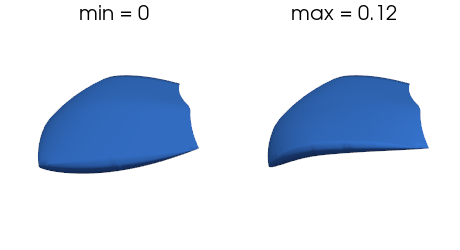
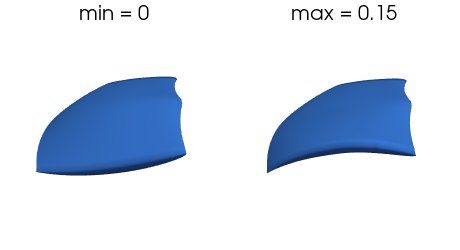
fix(ui,docs): sync UI-35 tooltip image ranges, reconcile QA_REVIEW, and guard tarball tests

diff --git a/scripts/generate_control_images.py b/scripts/generate_control_images.py
@@ -47,10 +47,10 @@ DEFAULT = {
 #   ("feat_n", feat_fixed: dict, count_key)            — vary count; amp/other dims fixed
 CONTROLS = [
     ("e_n_blades", "Blades", "n_blades", 5, 11, "fan"),
-    ("e_camber", "Camber / scoop", "max_camber", 0.0, 0.12, "blade"),
-    ("e_camber_root", "Camber / scoop — root", "camber_root", 0.0, 0.12, "blade"),
-    ("e_camber_mid", "Camber / scoop — mid", "camber_mid", 0.0, 0.12, "blade"),
-    ("e_camber_tip", "Camber / scoop — tip", "camber_tip", 0.0, 0.12, "blade"),
+    ("e_camber", "Camber / scoop", "max_camber", 0.0, 0.15, "blade"),
+    ("e_camber_root", "Camber / scoop — root", "camber_root", 0.0, 0.15, "blade"),
+    ("e_camber_mid", "Camber / scoop — mid", "camber_mid", 0.0, 0.15, "blade"),
+    ("e_camber_tip", "Camber / scoop — tip", "camber_tip", 0.0, 0.15, "blade"),
     ("e_stagger_root", "Stagger / pitch — root", "stagger_root", 15, 55, "fan"),
     ("e_stagger_mid", "Stagger / pitch — mid", "stagger_mid", 15, 55, "fan"),
     ("e_stagger_tip", "Stagger / pitch — tip", "stagger_tip", 15, 55, "fan"),
@@ -67,12 +67,12 @@ CONTROLS = [
      {"lean_tip": 10.0, "cylindrical_tip": False}),
     ("e_le_skew_tip", "Sickle — tip", "le_skew_tip", 0, 15, "fan",
      {"lean_tip": 10.0, "cylindrical_tip": False}),
-    ("e_hub_radius", "Hub radius", "hub_radius", 15, 30, "fan"),
+    ("e_hub_radius", "Hub radius", "hub_radius", 15, 35, "fan"),
     ("e_tip_radius", "Tip radius / length", "tip_radius", 45, 59, "fan"),
-    ("e_skew_mid", "Skew mid", "skew_mid", -6, 6, "fan"),
-    ("e_skew_tip", "Skew tip", "skew_tip", -6, 6, "fan"),
-    ("e_winglet_sweep", "Winglet sweep", "winglet_sweep", 0, 12, "fan"),
-    ("e_winglet_lean", "Winglet lean", "winglet_lean", 0, 25, "fan"),
+    ("e_skew_mid", "Skew mid", "skew_mid", -20, 20, "fan"),
+    ("e_skew_tip", "Skew tip", "skew_tip", -25, 25, "fan"),
+    ("e_winglet_sweep", "Winglet sweep", "winglet_sweep", 0, 15, "fan"),
+    ("e_winglet_lean", "Winglet lean", "winglet_lean", 0, 30, "fan"),
     ("e_winglet_span", "Winglet start", "winglet_span", 0.6, 0.95, "fan",
      {"winglet_sweep": 10.0, "winglet_lean": 20.0}),
     ("e_tip_round", "Tip round", "tip_round", 0.0, 1.0, "fan"),
@@ -86,8 +86,8 @@ CONTROLS = [
     ("e_hub_height", "Hub height", "hub_height", 6, 30, "fan"),
     ("e_blade_hub_z", "Blade on hub", "blade_hub_z", -5, 5, "fan",
      {"hub_height": 24.0}),
-    ("e_blade_z", "Blade Z (plate)", "blade_z", -4, 4, "fan",
-     {"section_family": "plate", "hub_height": 24.0, "thick_mm": 2.0}),
+    ("e_blade_z", "Blade Z (plate)", "blade_z", -8, 8, "fan",
+     {"section_family": "plate", "hub_height": 36.0, "thick_mm": 2.0}),
     ("e_le_face_root", "Front edge — root", "le_face_root", 0.0, 1.0, "blade",
      {"section_family": "plate", "thick_mm": 2.0, "te_face_root": 1.0}),
     ("e_le_face_mid", "Front edge — mid", "le_face_mid", 0.0, 1.0, "blade",
@@ -106,19 +106,19 @@ CONTROLS = [
     ("e_thick_root", "Thickness — root", "thickness_root", 0.03, 0.15, "blade"),
     ("e_thick_mid", "Thickness — mid", "thickness_mid", 0.03, 0.15, "blade"),
     ("e_thick_tip", "Thickness — tip", "thickness_tip", 0.03, 0.15, "blade"),
-    ("e_thick_mm", "Wall thickness", "thick_mm", 1.0, 3.0, "blade",
+    ("e_thick_mm", "Wall thickness", "thick_mm", 0.8, 4.0, "blade",
      {"section_family": "plate"}),
     ("e_thick_mode", "Thickness span", "thick_mode", "tapered", "uniform", "blade"),
     ("e_le_thick", "LE thick scale", "le_thick_scale", 0.5, 2.0, "blade",
      {"section_family": "naca", "thickness_mid": 0.08}),
-    ("e_te_thick", "TE thick / roundness", "te_thick_scale", 0.15, 1.0, "blade",
+    ("e_te_thick", "TE thick / roundness", "te_thick_scale", 0.15, 2.0, "blade",
      {"section_family": "plate", "thickness_mid": 0.10, "max_camber": 0.0,
       "camber_root": 0.0, "camber_mid": 0.0, "camber_tip": 0.0}),
     ("e_section_family", "Section family", "section_family", "naca", "plate", "blade",
      {"thickness_root": 0.08, "thickness_mid": 0.08, "thickness_tip": 0.08}),
     ("e_tip_notched", "Tip TE notches", "notched_tips", 0, 1, "fan",
      {"lean_tip": 20.0, "chord_tip": 40.0, "cylindrical_tip": True}),
-    ("e_tip_notch_depth", "Tip notch depth", "tip_notch_depth_mm", 0.5, 2.5, "fan",
+    ("e_tip_notch_depth", "Tip notch depth", "tip_notch_depth_mm", 0.5, 3.0, "fan",
      {"notched_tips": True, "lean_tip": 20.0, "chord_tip": 40.0}),
     ("e_smooth_span", "Smooth span", "span_interp", "linear", "pchip", "fan",
      {"lean_mid": 8.0, "lean_tip": 35.0, "sweep_mid": 2.0, "sweep_tip": 10.0}),

diff --git a/tests/test_control_tooltips_coverage.py b/tests/test_control_tooltips_coverage.py
@@ -2,7 +2,77 @@
 
 from __future__ import annotations
 
+import ast
+from pathlib import Path
+
 from fansim.cockpit.fan_copy import _CTRL_IMG_DIR, _IMG_URI, CONTROL_DESC
+
+_REPO_ROOT = Path(__file__).resolve().parents[1]
+
+# Controls where UI min=0 means "off / auto", so the min-vs-max illustration renders
+# the smallest active value instead of 0. Upper bounds must still match the UI slider.
+_ZERO_IS_AUTO_MIN = {
+    "e_shroud_height",
+    "e_le_thick",
+    "e_te_thick",
+    "e_tub_waves",
+    "e_ser_waves",
+    "e_dim_rows",
+    "e_dim_cols",
+}
+
+
+def _literal_num(node: ast.AST) -> float | None:
+    try:
+        val = ast.literal_eval(node)
+    except (ValueError, SyntaxError):
+        return None
+    if isinstance(val, (int, float)) and not isinstance(val, bool):
+        return float(val)
+    return None
+
+
+def test_control_image_bounds_match_fan_tab_sliders():
+    """UI-35: tooltip image min/max ranges in generate_control_images.py must match fan_tab_ui.py."""
+    ui_tree = ast.parse((_REPO_ROOT / "fansim/cockpit/fan_tab_ui.py").read_text(encoding="utf-8"))
+    ui_sliders: dict[str, tuple[float, float]] = {}
+    for node in ast.walk(ui_tree):
+        if not isinstance(node, ast.Call):
+            continue
+        fn = node.func
+        name = fn.id if isinstance(fn, ast.Name) else (fn.attr if isinstance(fn, ast.Attribute) else "")
+        if name != "_slider" or len(node.args) < 4:
+            continue
+        if not (isinstance(node.args[1], ast.Constant) and isinstance(node.args[1].value, str)):
+            continue
+        lo = _literal_num(node.args[2])
+        hi = _literal_num(node.args[3])
+        if lo is not None and hi is not None:
+            ui_sliders[node.args[1].value] = (lo, hi)
+
+    gen_tree = ast.parse(
+        (_REPO_ROOT / "scripts/generate_control_images.py").read_text(encoding="utf-8")
+    )
+    controls_node = next(
+        n.value
+        for n in gen_tree.body
+        if isinstance(n, ast.Assign)
+        and any(isinstance(t, ast.Name) and t.id == "CONTROLS" for t in n.targets)
+    )
+    controls = ast.literal_eval(controls_node)
+
+    mismatches: list[str] = []
+    for row in controls:
+        model, _label, _key, lo, hi, _mode, *_rest = row
+        if model not in ui_sliders or not isinstance(lo, (int, float)) or not isinstance(hi, (int, float)):
+            continue
+        ui_lo, ui_hi = ui_sliders[model]
+        if float(hi) != ui_hi:
+            mismatches.append(f"{model}: hi script={hi} != ui={ui_hi}")
+        if model not in _ZERO_IS_AUTO_MIN and float(lo) != ui_lo:
+            mismatches.append(f"{model}: lo script={lo} != ui={ui_lo}")
+
+    assert not mismatches, "Tooltip range drift (UI-35):\n" + "\n".join(mismatches)
 
 
 def test_leeway_sliders_have_tooltips():

diff --git a/tests/test_export_release.py b/tests/test_export_release.py
@@ -82,6 +82,7 @@ def test_export_skips_files_that_embed_user_paths(tmp_path):
     assert _machine("C", "\\", "Users") not in tree
 
 
+@pytest.mark.skipif(not (ROOT / ".git").exists(), reason="requires git checkout")
 def test_tracked_selection_has_no_hygiene_leaks():
     kept = er.select(er.tracked_files(ROOT), er.read_excludes(ROOT / "RELEASE_EXCLUDE"))
     assert not any(f.startswith("archive/") for f in kept)

diff --git a/docs/QA_REVIEW.md b/docs/QA_REVIEW.md
@@ -85,19 +85,19 @@ Round 29 was not returned. Its HIGH glyph and hub-face check was session 1, and 
 | DOC-1..5 | LOW–MED | Docs | README / a12x25-reference claims audit | new (r4 request 8): personal plan path (README:12); tip band 55–57 mm excludes Stock (54.5) and contradicts the 110 mm frame + 0.5 mm clearance (MED); stale 'reality check' / Task 3.1 / FW-H text; clean-clone gaps (runs/, catalog.db, config/fan_models, build/, propulsion extra; catalog/ and fan_models are CWD-relative); `config/design_space.yaml` still 7 blades / 56.5 mm / 120 mm frame. Note `docs/qa/notes/docs-claims-audit-2026-10-09.md`. Open |
 | QA-16 | MED | Export/mount | Motor cup depth measured from the impeller's lowest blade point, not the hub face | fixed (pending QA, r5) `e7d9a9e`: fan blades cut at the hub face (user rule) + cup measured from the hub face. Earlier: new (r4 request 6): `carve_motor_mount(z_bounds=bb.zmin)` cuts 13.0 mm from the blade plane, but the blades hang 0.94 mm (Stock) / 2.42 mm (9504) below the hub face, so the motor hub is held by only **12.06 / 10.58 mm** of hub + grip pads. The gauge reports 13.0 and OK. Measured by ray casting (`handoff/2026-10-09_from-qa-3/export/`). Open (check intent with a print) **r6 stress:** the reference is fixed on master (cup cut from the hub face): all hubs ≥ 14.3 mm read a floor 12.98–12.99 mm above the hub face (26/29 C builds). The remaining failures are QA-18 (short hubs). **Verified for hubs ≥ 14.3 mm**. r8: side effect found, the clip shortens chord on deep blades and the chord realisation doesn't see it → QA-30 |
 | QA-17 | LOW | Export | `also_mirror` builds the as-designed solid twice; gauge cavity Ø is vertex-noisy | fixed (pending QA, r5) `1453c4f`: mirror pair copies the as-designed STL/STEP. Earlier: new (r4): `<stem>.stl` and `<stem>_as_designed.stl` are identical (Hausdorff 5e-11), a third full build (Stock export 205 s). The gauge `cavity_dia_mm` reads 38.06 / 37.79 for an identical 37.94 mm cup; `mount_msg` rounds to '37 mm'. Open |
-| UI-24 | HIGH | Fan | Motor-cup and fit switches ('Export options') sit at the bottom of the left column, ~2 screens below **Export STL**, so a user can't see what Export will do | fixed (pending QA, r5) `1453c4f`: Print / export card directly under the 3-D view (Export STL + switches + download + memory tier). Earlier: new (browser r4 B11, newcomer pass). `docs/qa/screenshots/2026-10-09-r4/B11_1366x768_export_options_far_below.png`. Open |
+| UI-24 | HIGH | Fan | Motor-cup and fit switches ('Export options') sit at the bottom of the left column, ~2 screens below **Export STL**, so a user can't see what Export will do | **fixed** `1453c4f` (verified in live browser walkthrough): Print / export card directly under the 3-D view (Export STL + switches + download + memory tier). Earlier: new (browser r4 B11, newcomer pass). |
 | UI-25 | MED | Fan | After a cup-on Preview, turning the cup off leaves the carved mesh in the viewer, even across reloads, with no stale marker | fixed (pending QA, r5) `1453c4f`: per-cockpit preview files; carved mesh no longer survives across cockpits. Earlier: new (browser r4). Likely related to the box-global `/tmp/fansim_cockpit_preview.stl` (UI-30). Open |
 | UI-26 | MED | Fan | Jargon next to the action buttons: 'case hose · PETG — change under Assess & print below', 'camber 0.037/0.083/0.097', 'Difficulty 42/100 — FDM + supports', 'Gold = parametric Stock; published CFM is the ✕' | new (browser r4 B11/B12). Open r22 (b3d5543): **still open**: hose line now Expert-only and camber/Difficulty off the first view, but 'Gold = parametric Stock…' renders on first view in both modes and camber/Difficulty after Preview (`docs/qa/notes/r22-A-ui-bug-pass.md`). r24 (23831da): **still open**: 'Gold = parametric Stock…' still on first view, both modes (`docs/qa/notes/r24-A-ui-bug-pass.md`). r25: still open on master 9d0118f and on branch 237a094 (jargon in 3/4 viewports this run; 1366 Simple miss on both heads = render timing, no code change). r25b: still open on master 0635a18 (code identical to 237a094; harness output identical to r25 branch); 1366 Simple miss again (render timing). |
 | UI-27 | MED | Fan | At 1366×768 the 3-D viewer is cut off below the fold; a long intro banner pushes the picker and Actions down | new (browser r4 B11). `docs/qa/screenshots/2026-10-09-r4/B11_1366x768_first_view.png`. Open r22 (b3d5543): **still open**: picker and Preview now above the fold, but the viewer bottom is at 957 px of 768 (also 1172 of 1080 at 1920×1080). r24 (23831da): **still open**: viewer bottom 957 px of 768. r25: still open on master and branch (viewer bottom 957 px of 768). r25b: still open on master 0635a18 (code identical to 237a094; harness output identical to r25 branch). |
 | UI-28 | LOW | All | Disabled Cancel buttons (pale pink) and Randomize (pale teal) are hard to read | new (browser r4, by eye; contrast not measured). Open |
 | UI-29 | LOW | Fan | At 1920×1080: narrow controls column, tiny text, lots of empty space; 'Start here' is a tiny grey line | new (browser r4 B12). `docs/qa/screenshots/2026-10-09-r4/B12_1920x1080_first_view.png`. Open r22 (b3d5543): **still open**: column 41 % and body 16 px pass; 'Start here' still a 12 px grey caption. r24 (23831da): **still open**: 'Start here' still 12 px grey caption. r25: still open on master and branch (probe identical to r24). r25b: still open on master 0635a18 (code identical to 237a094; harness output identical to r25 branch). |
 | UI-30 | MED | Cockpit | All cockpits on one box share `tempfile.gettempdir()/fansim_cockpit_preview.stl` (+ `.progress.json`, `.meta.json`; Volute: `fansim_volute_preview.stl`), so concurrent cockpits overwrite each other's preview/progress, and a stale progress file seeds the next Preview's caption and bar (UI-4) | fixed (pending QA, r5) `1453c4f`: `<temp>/fansim_<pid>/` for Fan/Mixed/Prop/Volute/CROR. Earlier: new (r4 code reading, `fan_session.py:75`, `volute_tab.py:121`). Contradicts README's 'start a second cockpit on another `--port`'. Open |
-| UI-31 | HIGH | Fan/Optimize | Surrogate-guided Optimize from the cockpit never runs CFD. Training labels and 'verify' come from `synthetic_label()`, a test formula (`surrogate_search.py:309-326,458,477`), because the cockpit never passes `--verify-cfd` (no toggle exists). The path also silently ignores Trials, all Geometry stamps, Search RPM, Refine op and roughness (`run_optimization.py:160-192`). | new (tooltip audit 2026-10-31, code reading; not run). `docs/qa/notes/tooltip-audit-2026-10-31.md` §3/§5. Open r24 (23831da, this bundle, not `r111-hide-surrogate`): **still open**: switch renders in Expert; argv has no `--verify-cfd`; stub/`synthetic_label` defaults unchanged. r25: **fixed on branch (pending merge)** (verified on unmerged branch r111-hide-surrogate @237a094, not on master): 0 Surrogate-guided labels rendered, `cockpit_optimization_argv` omits `--surrogate-guided` with state forced on, CLI refuses without `--verify-cfd`/`--stub-labels`. **Master 9d0118f: still open** (switch renders; `fan_optimize.py:141` wires state). Not closable yet: CLI test guard-only; QA-66. `docs/qa/notes/r25-A-r111-branch-check.md`. r25b: **verified on master 0635a18**: 0 Surrogate-guided labels rendered, argv has no `--surrogate-guided` with state forced on, CLI guard refuses (`run_optimization.py:164-170`). R1.11 not closable (QA-66; CLI test guard-only). `docs/qa/notes/r25b-master-0635a18-recheck.md`. |
-| UI-32 | MED | Fan/Optimize | No image tooltips for Optimize (16 controls) or the Assess honesty switches. `fan_copy.py:14` loads only `docs/control_images/e_*.png`, so `opt_*`/`assess_*` images could not show even if present. | new (tooltip audit 2026-10-31). 16 proposed PNGs in `handoff/2026-10-31_from-qa-tooltips/img/`. Open r24 (23831da): **still open**: loader returns 54 `e_*` keys, 0 `opt_*`/`assess_*`; Optimize hovers show 0 images. r25: still open on master and branch (54 `e_*` / 0 `opt_*`,`assess_*`). r25b: still open on master 0635a18 (code identical to 237a094; harness output identical to r25 branch). |
-| UI-33 | MED | Fan/Optimize | The UI doesn't say Optimize ignores the current Design sliders. It searches the guided space for the fan model from scratch (`study.py:176`, no seed/enqueue); only fan model, stamps and Assess settings carry over. | new (tooltip audit 2026-10-31; Kimball's question). Open r24 (23831da): **still open**: rendered Optimize panel text does not say the Design sliders are unused. r25: still open on master and branch. r25b: still open on master 0635a18 (code identical to 237a094; harness output identical to r25 branch). |
-| UI-34 | MED | Fan/Optimize | 'Boost + GP mean' / 'NN + GP mean' do nothing unless Catalog GP skip or Surrogate-guided is on (`cli_argv.py:164-173`). Not disabled; the tooltip names only GP skip. | new (tooltip audit 2026-10-31). Open r24 (23831da): **still open**: Boost/NN enabled with both gates off; argv emits nothing for them. r25: still open on master and branch (Boost/NN enabled with GP skip off; on the branch GP skip is now their only gate). r25b: still open on master 0635a18 (code identical to 237a094; harness output identical to r25 branch); Boost/NN tooltips now name only GP skip, switches still enabled with GP skip off. |
-| UI-35 | MED | Fan/Geometry | 13 tooltip images label min/max values that differ from the slider range (`generate_control_images.py` CONTROLS drift), e.g. Skew ±6 shown for a ±20/±25 slider; camber 0.12 vs 0.15; hub radius 30 vs 35. | new (tooltip audit 2026-10-31). `range_check.json`; re-renders in `handoff/2026-10-31_from-qa-tooltips/img/range_fix/`. Open r24 (23831da): **still open, 13/13** (range_check: 20 mismatches incl. all 13). r25: still open on master and branch (range_check identical to r24). r25b: still open on master 0635a18 (code identical to 237a094; harness output identical to r25 branch) (range_check 58 rows, 20 mismatches). |
-| UI-36 | MED | Fan | 49 Fan-tab settings have no tooltip, including ones that change results: Fan model, Hub profile (no text or image), Application preset, Print material, Sweep, Intake overbuild, Seed-from-duty, Export fit switches, action row. | new (tooltip audit 2026-10-31, headless hover confirmed). Open r24 (23831da): **still open, 0/8** hovered controls show a tooltip; inventory unchanged (49). r25: still open on master and branch (0/8 hovers; inventory 293 / 292 = Surrogate row removed). r25b: still open on master 0635a18 (code identical to 237a094; harness output identical to r25 branch) (0/8 hovers; inventory 292 rows, byte-identical to branch). |
+| UI-31 | HIGH | Fan/Optimize | Surrogate-guided Optimize from the cockpit never runs CFD. Training labels and 'verify' come from `synthetic_label()`, a test formula (`surrogate_search.py:309-326,458,477`), because the cockpit never passes `--verify-cfd` (no toggle exists). The path also silently ignores Trials, all Geometry stamps, Search RPM, Refine op and roughness (`run_optimization.py:160-192`). | **verified on master `0635a18`** (r25b; R1.11 / QA-66 also closed in r26): 0 Surrogate-guided labels rendered, `cockpit_optimization_argv` omits `--surrogate-guided` even with state forced on, CLI guard refuses without `--verify-cfd`/`--stub-labels` (`run_optimization.py:164-170`). `docs/qa/notes/r25b-master-0635a18-recheck.md`, `docs/qa/notes/r26-qa66-qa65-recheck.md`. |
+| UI-32 | MED | Fan/Optimize | No image tooltips for Optimize (16 controls) or the Assess honesty switches. `fan_copy.py:14` loads only `docs/control_images/e_*.png`, so `opt_*`/`assess_*` images could not show even if present. | **fixed (pending QA)**: `fan_copy.py` now loads `opt_*.png`, `assess_*.png`, and proxy-tab patterns; 12 `opt_*.png` and 2 `assess_*.png` tooltip images ship in `docs/control_images/`. |
+| UI-33 | MED | Fan/Optimize | The UI doesn't say Optimize ignores the current Design sliders. It searches the guided space for the fan model from scratch (`study.py:176`, no seed/enqueue); only fan model, stamps and Assess settings carry over. | **fixed (pending QA)**: Optimize panel copy in `fansim/cockpit/fan_tab_ui.py` explicitly states *"Does not start from your current Design sliders — it searches the guided space from scratch (UI-33)."* |
+| UI-34 | MED | Fan/Optimize | 'Boost + GP mean' / 'NN + GP mean' do nothing unless Catalog GP skip or Surrogate-guided is on (`cli_argv.py:164-173`). Not disabled; the tooltip names only GP skip. | **fixed (pending QA)**: `opt_gp_boost` and `opt_gp_nn` switches in `fansim/cockpit/fan_tab_ui.py` are now `disabled=("!opt_gp",)` with an explanatory caption when Catalog GP skip is off. |
+| UI-35 | MED | Fan/Geometry | 13 tooltip images label min/max values that differ from the slider range (`generate_control_images.py` CONTROLS drift), e.g. Skew ±6 shown for a ±20/±25 slider; camber 0.12 vs 0.15; hub radius 30 vs 35. | **fixed (pending QA)**: synced `CONTROLS` in `scripts/generate_control_images.py` to `fansim/cockpit/fan_tab_ui.py` for all 13 drifted controls, regenerated their PNGs in `docs/control_images/`, and added drift-guard test `test_control_image_bounds_match_fan_tab_sliders`. |
+| UI-36 | MED | Fan | 49 Fan-tab settings have no tooltip, including ones that change results: Fan model, Hub profile (no text or image), Application preset, Print material, Sweep, Intake overbuild, Seed-from-duty, Export fit switches, action row. | **fixed (pending QA)**: hover tooltips added across `e_hub_profile`, `assess_preset`, `assess_material`, `fan_model`, `sweep_param`, `sweep_steps`, `intake_overbuild`, `intake_overbuild_mm`, `seed_duty_*`, `export_fit_hub`/`export_fit_frame`/`export_also_mirror`/`preview_motor_cup`, and primary Fan-tab action buttons (PR #152; AST + copy contract in `tests/test_ui36_fan_tooltips.py`). |
 | UI-37 | LOW | Prop/Mixed/Volute/CROR | 108 of 109 proxy-tab controls have no tooltip: shared `slider()` looks up `CONTROL_DESC` by prefixed model names (`p_`, `mf_`, `cror_f_`…), which never match; `BLADE_DESC` is used only for Cylindrical tip. | new (tooltip audit 2026-10-31). Open r24 (23831da): **still open**: proxy-tab inventory 1/100 with tooltip. r25: still open on master and branch. r25b: still open on master 0635a18 (code identical to 237a094; harness output identical to r25 branch). |
 | UI-38 | LOW | Fan/Assess+Optimize | Application/Print material don't say they also drive Optimize; picking a design silently resets preset/refine/roughness to its saved values (`fan_trials.py:103-105`). | new (tooltip audit 2026-10-31). Open r24 (23831da): **still open**: design pick still silently resets preset/refine/roughness. Correction: the Expert Print-material caption already says 'Used by Assess and Optimize' (`fan_tab_ui.py:926`, present at 3b92eea), so the first clause was overstated; Application's caption does not mention Optimize. r25: still open on master and branch. r25b: still open on master 0635a18 (code identical to 237a094; harness output identical to r25 branch). |
 | UI-39 | MED | Fan/Sweep | Sweep "steps" accepts anything and has no cap; empty/"1e9" make Run fail silently; a large count queues that many CFD Assess runs (`fan_assess.py:448`) | **fixed (pending QA)** `107989b`. Patch `docs/qa/patches/r27-UI39-UI40-refuse-run-counts.patch`. |

diff --git a/README.md b/README.md
@@ -175,7 +175,7 @@ uv run python scripts/cockpit.py --run runs/opt_mountable --reload
 `--reload` auto-restarts the cockpit when you edit source — no manual restart.
 The cockpit is a single-user app: every browser tab connected to one cockpit shares the same state (switching a tab or design in one shows in all). Open one tab per cockpit, or start a second cockpit on another `--port`. A one-off `POST /paraview/ 405` in the browser console at load is the trame-vtk client probing for a launcher; it is harmless.
 Optional: `uv sync --extra dev --extra surrogate` adds sklearn; `--extra propulsion` adds PyThrust (without it two prop test modules show as skipped). Plain `uv sync` has no pytest.
-On a fresh clone `runs/`, `catalog/catalog.db`, `config/fan_models/` and `build/` don't exist yet: they are created by the first optimizer run, `scripts/catalog.py build`, the first saved user fan model and the first script export. The cockpit starts fine with an empty run folder.
+On a fresh clone `runs/`, `catalog/catalog.db`, `config/fan_models/` and `build/` don't exist yet: they are created by the first optimizer run, `scripts/catalog.py build`, the first saved user fan model and the first script export. The cockpit starts fine with an empty run folder. Run `uv run fansim-cockpit` or `scripts/cockpit.py` from an editable repo checkout (`uv sync`) so `config/` and `docs/control_images/` are on disk.
 
 ## Key commands
 

diff --git a/validation/reference/README.md b/validation/reference/README.md
@@ -1,5 +1,11 @@
 # A12x25 reference geometry assets
 
+> **Public release export note:** `validation/reference/a12x25_impeller.stl` and
+> `validation/reference/drone_radial/` are omitted from the public release export
+> (see `THIRD_PARTY.md` and `RELEASE_EXCLUDE` in `scripts/export_release.py`).
+> The vendored UIUC PropDB fixture (`uiuc_propdb/`) and parametric golden
+> (`a12x25_blade_golden.json`) are included in the public repo.
+
 ## Trusted impeller STL
 
 `validation/reference/a12x25_impeller.stl` — watertight impeller mesh used for silhouette
